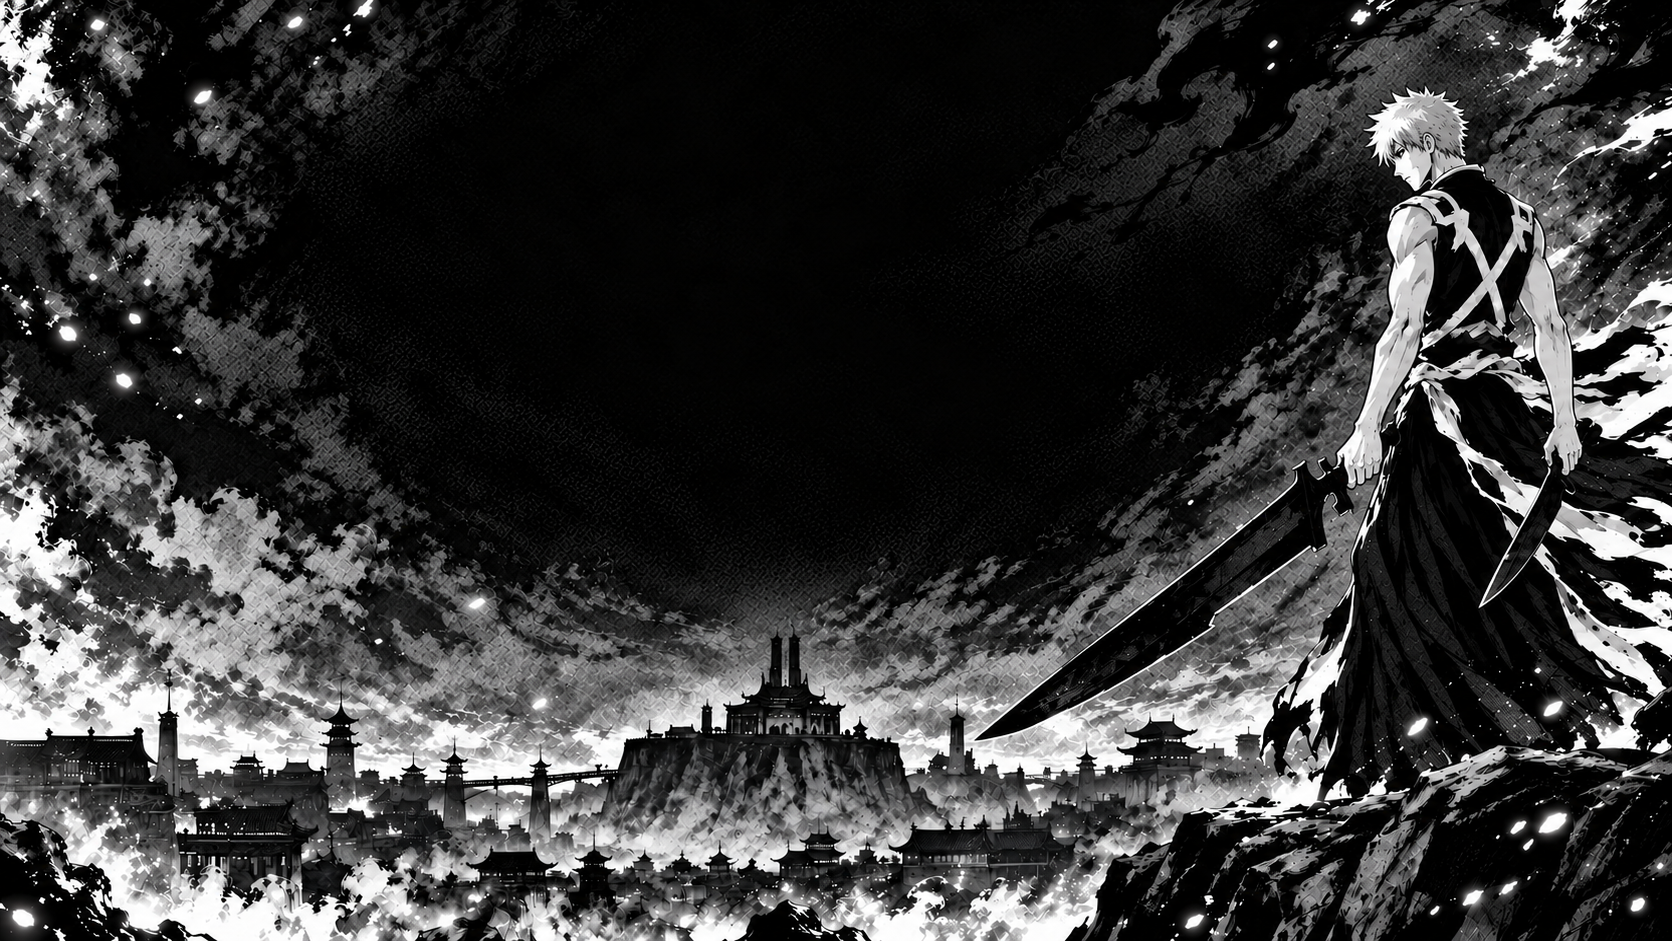
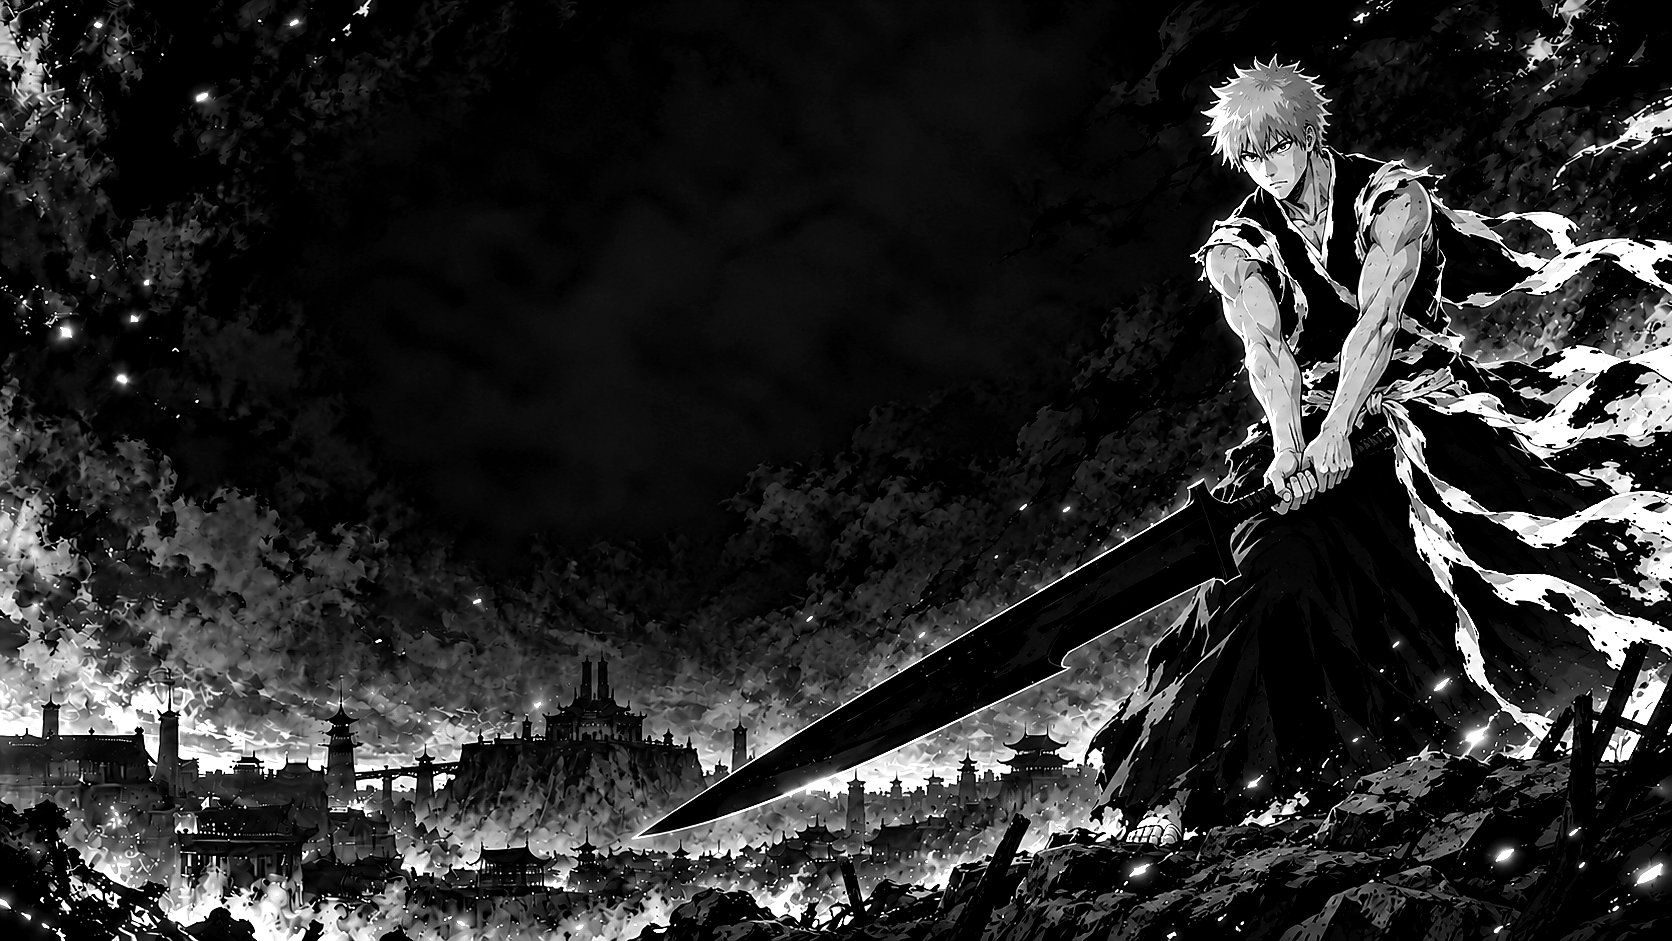
Change Ichigo to a two-handed sword pose

diff --git a/docs/ARTWORK.md b/docs/ARTWORK.md
@@ -12,7 +12,7 @@ Nemu Kurotsuchi, Askin Nakk Le Vaar, Lille Barro and Yachiru Kusajishi were adde
 
 ## Login and boot artwork
 
-The [manga login screen](../login/README.md) includes twelve black-and-white manga scene conversions of the full desktop wallpapers. [Exact prompt, source references, dimensions and hashes](../login/ARTWORK.json) are preserved. The Ichigo desktop scene is now `ichigo-desktop-v3.png`; its matching monochrome login scene was regenerated with the corrected arm pose. The final correction prompts, inputs and hashes are recorded in [the TYBW expansion record](prompts/tybw-expansion-20261020/PROMPTS.json). The TYBW expansion also adds four backgrounds, corrects Yamamoto and adds separate True Shikai Ichigo and Bankai Kenpachi terminal portraits. The original Dangai portrait asset remains for migration compatibility. The paper layout, ink borders and lettering are drawn by QML; `login/preview.png` uses dummy login data. These unofficial fan-art scenes follow the same separate artwork terms above.
+The [manga login screen](../login/README.md) includes twelve black-and-white manga scene conversions of the full desktop wallpapers. [Exact prompt, source references, dimensions and hashes](../login/ARTWORK.json) are preserved. The Ichigo desktop scene is now `ichigo-desktop-v4.png`, with a new forward-facing two-handed sword-guard pose. Its matching monochrome login scene uses the same pose and was converted locally from the desktop image. Prompts, conversion details and hashes are recorded in [the TYBW expansion record](prompts/tybw-expansion-20261020/PROMPTS.json). The TYBW expansion also adds four backgrounds, corrects Yamamoto and adds separate True Shikai Ichigo and Bankai Kenpachi terminal portraits. The original Dangai portrait asset remains for migration compatibility. The paper layout, ink borders and lettering are drawn by QML; `login/preview.png` uses dummy login data. These unofficial fan-art scenes follow the same separate artwork terms above.
 
 The [Ichigo boot splash](../boot/README.md) has its own [asset and prompt record](../boot/ARTWORK.json). Its character cutout is also excluded from the code MIT license. Aura, particle and loading-bar assets are generated from code-native geometry. Hollow-mask boot assets have been removed; the current splash always uses Ichigo.
 
